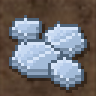
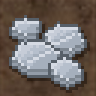
Ресурсы: межветочные пары разведены (вселениум, алюминий, ртуть, алмаз, древний металл, геокристалл, адский камень, медь), тёмный торф, граненое серебро
Claude-Session: https://claude.ai/code/session_0136gV4z446Ram1BD5cWLTAs

diff --git a/tools/ores_metals.py b/tools/ores_metals.py
@@ -212,6 +212,7 @@ class Pic:
     def __init__(self):
         self.rgb = np.zeros((G, G, 3), dtype=np.uint8)
         self.solid = np.zeros((G, G), dtype=bool)
+        self.hair = []
 
     # ---- общие операции
 
@@ -337,6 +338,9 @@ class Pic:
         if shadow:
             sh = (shifted(self.solid, 1, 1) | shifted(self.solid, 0, 1)) & ~self.solid
             a[sh, 0], a[sh, 1], a[sh, 2], a[sh, 3] = shadow_col[0], shadow_col[1], shadow_col[2], shadow_a
+        for x, y, c in self.hair:
+            if not self.solid[y, x]:
+                a[y, x, 0], a[y, x, 1], a[y, x, 2], a[y, x, 3] = c[0], c[1], c[2], 112
         s.img = Image.fromarray(a, "RGBA")
         return s
 
@@ -344,10 +348,10 @@ class Pic:
 
 # ══ материалы ═══════════════════════════════════════════════════════════════
 
-R_SILVER = ramp(262, 5, [46, 66, 79, 90, 95, 98, 100, 100], dh_dark=-10, dh_light=10, spec=(255, 255, 255))
-R_ALU = ramp(268, 18, [41, 57, 67, 75, 81, 86, 90, 95], dh_dark=-6, dh_light=0)
+R_SILVER = ramp(262, 9, [40, 66, 81, 91, 96, 98, 100, 100], dh_dark=-14, dh_light=10, spec=(255, 255, 255))
+R_ALU = ramp(270, 8, [40, 55, 64, 71, 77, 82, 87, 93], dh_dark=-8, dh_light=0)
 R_PLAT = ramp(332, 42, [52, 66, 76, 84, 90, 94, 97, 100], dh_dark=-14, dh_light=6, spec=(255, 255, 255))
-R_MERC = ramp(208, 28, [14, 27, 38, 48, 56, 66, 82, 100], dh_dark=-10, dh_light=6, spec=(255, 255, 255))
+R_MERC = ramp(234, 44, [20, 33, 45, 56, 64, 72, 86, 100], dh_dark=-8, dh_light=4, spec=(255, 255, 255))
 R_LEAD = ramp(285, 20, [18, 29, 38, 45, 52, 59, 66, 76], dh_dark=-4, dh_light=0)
 R_TITAN = ramp(288, 62, [20, 31, 42, 51, 59, 69, 80, 92], dh_dark=-14, dh_light=40)
 R_NICK = ramp(126, 34, [24, 38, 49, 57, 64, 72, 82, 93], dh_dark=-6, dh_light=14)
@@ -439,17 +443,64 @@ def _shard(p, cx, cy, length, width, rot, rp, skew=0.34):
     return mask
 
 
-def silver_tile():
+def _facet_poly(p, pts, rp, base=4.0, gain=3.2, lo=1, hi=6, edge=None, apex=(0.0, 0.0), tones=None):
+    """Граненый самородок: грани-треугольники от центра, тон по нормали грани; тёмный контур со всех сторон
+    и светлая кромка внутри на освещённых рёбрах."""
+    mask = poly(pts)
+    cx, cy = sum(q[0] for q in pts) / len(pts), sum(q[1] for q in pts) / len(pts)
+    p.ring(mask, rp[0])
+    n = len(pts)
+    for i in range(n):
+        a, b = pts[i], pts[(i + 1) % n]
+        ex, ey = b[0] - a[0], b[1] - a[1]
+        ln = math.hypot(ex, ey)
+        nx, ny = ey / ln, -ex / ln
+        mx, my = (a[0] + b[0]) / 2 - cx, (a[1] + b[1]) / 2 - cy
+        if nx * mx + ny * my < 0:
+            nx, ny = -nx, -ny
+        lit = nx * _LIGHT[0] + ny * _LIGHT[1]
+        idx = int(np.clip(round(base + lit * gain), lo, hi))
+        col = rp[idx] if tones is None else tones[idx]
+        p.paint(poly([(cx + apex[0], cy + apex[1]), a, b]) & mask, col)
+    up, left = shifted(mask, 0, 1), shifted(mask, 1, 0)
+    p.paint(mask & ~(up & left) & ~erode(mask) & (~up | ~left), rp[7] if edge is None else edge)
+    return mask
+
+
+SIL_FACET = [lch(84, 9, 258), lch(91, 6, 262), lch(96, 4, 266), lch(99, 2, 270), (255, 255, 255)]
+_SILVER_CHUNKS = (
+    [(4, 19), (5, 13), (10, 9), (16, 9), (21, 12), (22, 18), (19, 24), (12, 26), (6, 24)],
+    [(20, 22), (24, 18), (29, 20), (30, 25), (26, 28), (21, 27)],
+    [(20, 6), (24, 4), (27, 7), (26, 11), (22, 11)],
+    [(4, 5), (7, 3), (10, 5), (9, 8), (5, 8)],
+)
+
+
+def _silver_pic(k, ox, oy):
     p = Pic()
-    k = dict(lo=-2.0, hi=1.3)
-    p.dome(blob(20.5, 8.8, 3.5, 2.9, 0.3, 0.14, 11), R_SILVER, streaks=_chrome(20.5, 8.8), **k)
-    p.dome(blob(13.0, 17.5, 6.8, 5.6, -0.35, 0.15, 12), R_SILVER, streaks=_chrome(13, 17.5), **k)
-    p.dome(blob(22.8, 21.0, 4.4, 3.7, 0.2, 0.14, 13), R_SILVER, streaks=_chrome(22.8, 21), **k)
-    p.dome(blob(7.5, 8.5, 2.2, 1.9, 0.0, 0.12, 14), R_SILVER, **k)
-    p.sparkle(25, 12, 3, (255, 255, 255), (232, 240, 255))
-    p.sparkle(5, 23, 2, (255, 255, 255), (232, 240, 255))
-    p.sparkle(12, 13, 2, (255, 255, 255), (255, 255, 255))
+    for pts in _SILVER_CHUNKS[::-1] if False else _SILVER_CHUNKS:
+        q = [(16 + (x - 16) * k + ox, 16 + (y - 16) * k + oy) for x, y in pts]
+        _facet_poly(p, q, R_SILVER, base=3.0, gain=2.2, lo=0, hi=4, apex=(-1.6, -1.4), tones=SIL_FACET)
+    return p
+
+
+def silver_tile():
+    p = _silver_pic(1.0, 0, 0)
+    # хромовая полоса поперёк большого куска: тёмный «горизонт» и светлый блик под ним
+    p.line((9, 22), (18, 12), R_SILVER[2], clip=erode(poly(_SILVER_CHUNKS[0])))
+    p.line((10, 22), (19, 12), R_SILVER[7], clip=erode(poly(_SILVER_CHUNKS[0])))
+    p.sparkle(26, 14, 3, (255, 255, 255), (222, 236, 255))
+    p.sparkle(5, 26, 2, (255, 255, 255), (222, 236, 255))
+    p.sparkle(14, 6, 2, (255, 255, 255), (255, 255, 255))
     return p.sprite()
+
+
+def silver_icon():
+    p = _silver_pic(1.22, 0, 1)
+    p.sparkle(27, 12, 3, (255, 255, 255), (222, 236, 255))
+    p.sparkle(4, 27, 2, (255, 255, 255), (222, 236, 255))
+    p.sparkle(14, 3, 2, (255, 255, 255), (255, 255, 255))
+    return p.sprite(shadow=False)
 
 
 def aluminium_tile():
@@ -562,14 +613,17 @@ def nickel_tile():
 
 
 R_IRON = ramp(48, 46, [16, 25, 35, 44, 52, 59, 67, 77], dh_dark=-16, dh_light=16)
-R_COPPER = ramp(55, 84, [22, 33, 44, 54, 62, 70, 80, 92], dh_dark=-24, dh_light=12)
+R_COPPER = ramp(60, 64, [24, 36, 48, 58, 66, 73, 82, 93], dh_dark=-24, dh_light=8, c_dark=0.9, c_light=0.8)
 R_PATINA = ramp(172, 30, [20, 34, 46, 56, 64, 72, 82, 92], dh_dark=-10, dh_light=14)
 R_GOLD = ramp(90, 98, [32, 46, 58, 67, 74, 81, 88, 95], dh_dark=-34, dh_light=4, c_dark=0.75, c_light=0.95)
 R_SCRAP = ramp(92, 8, [18, 30, 40, 48, 55, 62, 70, 80], dh_dark=-6, dh_light=6)
 R_RUST = ramp(52, 42, [14, 24, 33, 41, 48, 55, 63, 72], dh_dark=-14, dh_light=14)
-R_PEAT = ramp(66, 58, [10, 19, 30, 41, 51, 59, 68, 80], dh_dark=-10, dh_light=14, c_dark=0.95, c_light=0.75)
+R_PEAT = ramp(100, 30, [2, 3, 5, 7, 9, 12, 15, 32], dh_dark=-8, dh_light=8, c_dark=0.9, c_light=0.85)
 R_FIBER = ramp(70, 34, [16, 28, 40, 50, 58, 66, 74, 84], dh_dark=-8, dh_light=10)
-R_MOSS = ramp(124, 80, [10, 18, 28, 37, 46, 55, 66, 78], dh_dark=-6, dh_light=20, c_dark=0.9, c_light=0.85)
+R_MOSS = ramp(132, 64, [5, 9, 15, 21, 28, 36, 46, 62], dh_dark=-6, dh_light=14, c_dark=0.95, c_light=0.9)
+PEAT_FIBER = lch(72, 30, 86)
+PEAT_FIBER2 = lch(54, 30, 82)
+PEAT_RIM = lch(30, 30, 86)
 R_COAL = [lch(1.5, 4, 105), lch(2.5, 5, 108), lch(4, 8, 118), lch(6.5, 8, 118), lch(9, 5, 255), lch(20, 6, 250),
           lch(46, 8, 245), lch(74, 8, 240)]
 R_URAN = ramp(126, 92, [26, 44, 58, 69, 79, 87, 94, 99], dh_dark=22, dh_light=-8, c_dark=0.9, c_light=0.8)
@@ -952,18 +1006,6 @@ def lead_icon():
     return p.sprite(shadow=False)
 
 
-def silver_icon():
-    p = Pic()
-    k = dict(lo=-2.0, hi=1.3)
-    p.dome(blob(22.5, 10.5, 4.6, 3.8, 0.3, 0.12, 221), R_SILVER, streaks=_chrome(22.5, 10.5), **k)
-    p.dome(blob(14.0, 18.5, 10.0, 8.2, -0.3, 0.12, 222), R_SILVER, streaks=_chrome(14, 18.5), **k)
-    p.dome(blob(25.5, 24.5, 5.0, 4.0, 0.2, 0.12, 223), R_SILVER, streaks=_chrome(25.5, 24.5), **k)
-    p.sparkle(27, 5, 3, (255, 255, 255), (232, 240, 255))
-    p.sparkle(5, 8, 2, (255, 255, 255), (232, 240, 255))
-    p.sparkle(11, 14, 2, (255, 255, 255), (255, 255, 255))
-    return p.sprite(shadow=False)
-
-
 def copper_icon():
     p = Pic()
     k = dict(lo=-1.0, hi=1.2, spec_k=18)
@@ -1198,16 +1240,39 @@ def fuel_block_coal_icon():
     return p.sprite(shadow=False)
 
 
-def _peat_clod(p, cx, cy, rx, ry, rot, sd, moss_thr=0.68):
+def _hair(p, mask, n, seed):
+    """Светлые волокна-«шерсть» по краю комка: тонкие изогнутые нити наружу, полупрозрачные (стелются по грунту,
+    телом залежи не считаются)."""
+    rng = np.random.default_rng(seed)
+    ys, xs = np.nonzero(dilate(mask) & ~mask)
+    if len(ys) == 0:
+        return
+    cy, cx = np.mean(np.nonzero(mask), axis=1)
+    for k in rng.choice(len(ys), min(n, len(ys)), replace=False):
+        x, y = float(xs[k]), float(ys[k])
+        ang = math.atan2(y - cy, x - cx) + rng.uniform(-0.6, 0.6)
+        for i in range(int(rng.integers(3, 7))):
+            xi, yi = int(x), int(y)
+            if 0 <= xi < G and 0 <= yi < G and not mask[yi, xi] and not p.solid[yi, xi]:
+                p.hair.append((xi, yi, PEAT_FIBER if (i + k) % 3 else PEAT_FIBER2))
+            ang += rng.uniform(-0.55, 0.55)
+            x += math.cos(ang)
+            y += math.sin(ang)
+
+
+def _peat_clod(p, cx, cy, rx, ry, rot, sd, moss_thr=0.2):
+    """Тёмный комок торфа: сверху зелёный мох пятнами, внутри светлые волокна, снаружи торчат корешки."""
     m = blob(cx, cy, rx, ry, rot, 0.26, sd, 8, 2.2)
-    n = vnoise(sd + 7, 2.6) + (vnoise(sd + 9, 1.4) - 0.5) * 0.3
-    moss = erode(m) & (n > moss_thr) & (_YY < cy + 2)
-    p.dome(m, R_PEAT, spec=False, lo=-0.75, hi=1.4, alt=(moss, R_MOSS), rim=R_PEAT[7],
+    n = vnoise(sd + 7, 2.8) + (vnoise(sd + 9, 1.5) - 0.5) * 0.35
+    moss = erode(m) & (n > moss_thr) & (_YY < cy + 6)
+    p.dome(m, R_PEAT, spec=False, lo=-1.0, hi=2.2, alt=(moss, R_MOSS), rim=PEAT_RIM,
            tex=(vnoise(sd + 13, 2.0) - 0.5) * 0.3)
     area = int(m.sum())
-    _strands(p, m, area // 10, sd + 21, R_PEAT[1], 9, curl=0.5)
-    _strands(p, m, area // 14, sd + 25, R_PEAT[7], 7, curl=0.5)
-    _fibers(p, m, 4 + int(rx / 1.5), sd + 31, R_PEAT, out=True)
+    _strands(p, m, area // 45, sd + 19, R_PEAT[0], 8, curl=0.5)
+    _strands(p, m, area // 100, sd + 21, PEAT_FIBER2, 7, curl=0.5)
+    _strands(p, m, area // 160, sd + 22, PEAT_FIBER, 6, curl=0.5)
+    _hair(p, m, 8 + int(rx * 1.6), sd + 31)
+    _strands(p, m, area // 120, sd + 27, R_MOSS[6], 4, curl=0.4)
     return m
 
 

diff --git a/tools/ores_gems.py b/tools/ores_gems.py
@@ -382,8 +382,8 @@ def _universalium(mode):
     cx, cy = 15.5, 15.5
     turn = 11.0   # звезда повёрнута: без осевой симметрии
     # (угол, длина, оттенок): кардинальные лучи длинные, диагональные короткие
-    rays = [(-90, 13.5, 205), (-45, 9.5, 125), (0, 12.0, 85), (45, 9.0, 48), (90, 13.0, 356), (135, 9.5, 322),
-            (180, 12.5, 275), (-135, 9.0, 238)]
+    rays = [(-90, 12.0, 236), (-45, 12.0, 84), (0, 13.0, 8), (45, 11.5, 64), (90, 13.0, 4), (135, 9.5, 24),
+            (180, 13.0, 90), (-135, 7.0, 205)]
     order = sorted(range(len(rays)), key=lambda i: rays[i][1])
     for i in order:
         ang, ln, hue = rays[i]
@@ -395,20 +395,20 @@ def _universalium(mode):
         T = (cx + dx * ln, cy + dy * ln)
         sl = (cx + dx * d - px * w, cy + dy * d - py * w)
         sr = (cx + dx * d + px * w, cy + dy * d + py * w)
-        lit, dark = lch(84, 60, hue), lch(50, 96, hue)
+        lit, dark = lch(76, 70, hue), lch(50, 100, hue)
         cv.fill(poly_mask([(cx, cy), sl, T, sr]), dark)
         cv.fill(poly_mask([(cx, cy), sl, T]), lit)
-        cv.line((cx + dx * d * 0.6, cy + dy * d * 0.6), (cx + dx * ln * 0.78, cy + dy * ln * 0.78), lch(98, 10, hue))
+        cv.line((cx + dx * d * 0.6, cy + dy * d * 0.6), (cx + dx * ln * 0.78, cy + dy * ln * 0.78), lch(94, 24, hue))
     sil = cv.solid()
     cv.ring(sil, lch(26, 62, 264))
     # ядро: белый восьмигранник с призматическим бликом
-    core = ell_mask(cx, cy, 3.3 * k, 3.3 * k)
+    core = ell_mask(cx, cy, 2.7 * k, 2.7 * k)
     cv.fill(core, lch(96, 8, 250))
-    cv.fill(ell_mask(cx + 0.6, cy + 0.8, 2.4 * k, 2.4 * k), lch(88, 24, 205))
-    cv.fill(ell_mask(cx - 0.6, cy - 0.7, 1.8 * k, 1.8 * k), (255, 255, 255))
+    cv.fill(ell_mask(cx + 0.5, cy + 0.7, 1.9 * k, 1.9 * k), lch(88, 24, 205))
+    cv.fill(ell_mask(cx - 0.5, cy - 0.6, 1.3 * k, 1.3 * k), (255, 255, 255))
     cv.put(cx + 1.2 * k, cy + 1.8 * k, lch(90, 50, 340))
     cv.put(cx + 2.2 * k, cy + 0.3 * k, lch(92, 55, 95))
-    cv.ring(core, lch(42, 54, 262))
+    cv.ring(core, lch(44, 56, 340))
     cv.halo(lch(88, 52, 215), 1.3, 0.36)
     for (x, y, n) in ((4, 5, 1), (27, 26, 1), (28, 7, 0), (5, 26, 0)):
         if cv.a[y, x, 3] < 100:
@@ -509,8 +509,8 @@ def _brilliant(cv, cx, top, w, h, P, flip=0.0):
 def _diamond(mode):
     cv = Cv("diamond")
     P = {
-        "out": lch(28, 40, 236), "deep": lch(50, 44, 226), "shade": lch(66, 42, 214), "base": lch(81, 32, 204),
-        "light": lch(92, 17, 200), "hi": lch(99, 3, 200), "cyan": lch(76, 46, 196),
+        "out": lch(30, 42, 232), "deep": lch(74, 42, 204), "shade": lch(83, 38, 197), "base": lch(90, 32, 194),
+        "light": lch(96, 14, 194), "hi": lch(99, 3, 200), "cyan": lch(86, 44, 192),
     }
     if mode == "tile":
         gems = [(8.5, 5, 9, 9, -0.5), (24, 8, 7, 7, 0.5), (15, 12, 15, 14.5, 0.0)]
@@ -705,8 +705,8 @@ def _prism(cv, bx, by, H, W, ang, P, tilt=0.0):
 def _geocrystal(mode):
     cv = Cv("geocrystal")
     P = {
-        "out": lch(26, 48, 42), "deep": lch(42, 74, 44), "shade": lch(54, 84, 52), "base": lch(66, 88, 62),
-        "light": lch(78, 84, 72), "hi": lch(90, 52, 86), "core": lch(94, 40, 92), "white": (255, 252, 226),
+        "out": lch(22, 52, 32), "deep": lch(36, 80, 36), "shade": lch(48, 92, 40), "base": lch(59, 96, 46),
+        "light": lch(72, 92, 58), "hi": lch(90, 56, 80), "core": lch(94, 40, 90), "white": (255, 252, 226),
     }
     # (основание x, y, высота, ширина, наклон, смещение острия): веер из центра, у ног — самая яркая точка
     prisms = [(24, 27, 14, 6.4, 22, 0.8), (7.5, 27, 11, 5.4, -24, -0.6), (16, 28, 22, 8.2, -4, 0.8),
@@ -750,12 +750,14 @@ def _plate(cv, pts, P, runes=True, rivets=True):
     ys, xs = np.nonzero(face)
     # потёки патины сверху вниз и светлая окисная крапа
     rng = cv.rng
-    for _ in range(5):
+    for _ in range(9):
         i = rng.randrange(len(ys))
         x, y = xs[i], ys[i]
-        for dy in range(rng.randint(2, 4)):
+        for dy in range(rng.randint(2, 5)):
             if face[min(y + dy, G - 1), x]:
                 cv.put(x, y + dy, P["green"])
+                if dy == 0 and x + 1 < G and face[y, x + 1]:
+                    cv.put(x + 1, y, tone(P["green"], -8))
     cv.speckle(face, [P["light"], P["shade"]], 14)
     cv.rim(face, P["hi"], P["shade"], 0.8, 0.6, bottom=False)
     cv.ring(face | side, P["out"])
@@ -765,9 +767,9 @@ def _plate(cv, pts, P, runes=True, rivets=True):
 def _ancient_metal(mode):
     cv = Cv("ancient_metal")
     P = {
-        "out": lch(20, 26, 190), "deep": lch(34, 30, 188), "shade": lch(45, 34, 184), "base": lch(56, 36, 178),
-        "light": lch(68, 38, 172), "hi": lch(82, 28, 168), "green": lch(44, 36, 150),
-        "rune": lch(84, 72, 88), "rune2": lch(66, 62, 80), "bolt": lch(86, 20, 175),
+        "out": lch(14, 24, 60), "deep": lch(26, 30, 76), "shade": lch(36, 36, 80), "base": lch(46, 40, 82),
+        "light": lch(58, 42, 86), "hi": lch(74, 34, 92), "green": lch(52, 40, 158),
+        "rune": lch(88, 78, 92), "rune2": lch(64, 66, 76), "bolt": lch(82, 22, 90),
     }
     k = 0.93 if mode == "tile" else 1.1
 
@@ -835,8 +837,8 @@ def _crack(cv, pts, P, inside):
 def _hellstone(mode):
     cv = Cv("hellstone")
     P = {
-        "out": lch(3, 18, 28), "deep": lch(7, 20, 28), "shade": lch(12, 28, 30), "base": lch(19, 34, 32),
-        "lit": lch(29, 44, 34), "rim": lch(46, 68, 40),
+        "out": lch(2, 16, 28), "deep": lch(3, 16, 28), "shade": lch(6, 22, 28), "base": lch(10, 30, 30),
+        "lit": lch(17, 40, 32), "rim": lch(46, 68, 40),
         "red": lch(40, 80, 40), "orange": lch(66, 92, 58), "yellow": lch(88, 78, 88), "white": lch(97, 20, 95),
     }
     rocks = [
